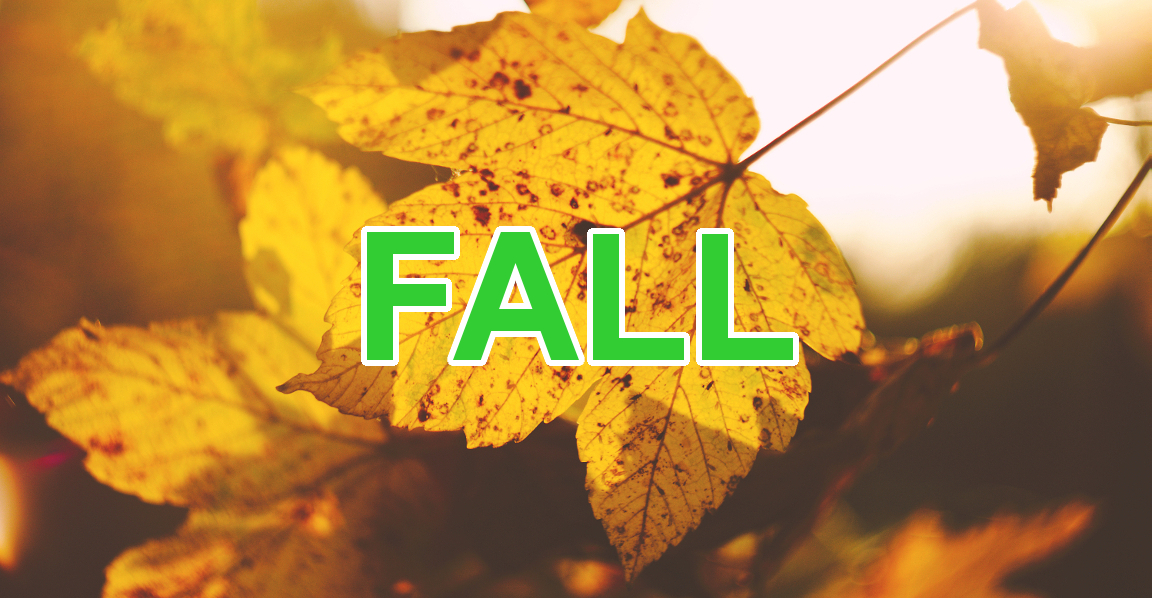
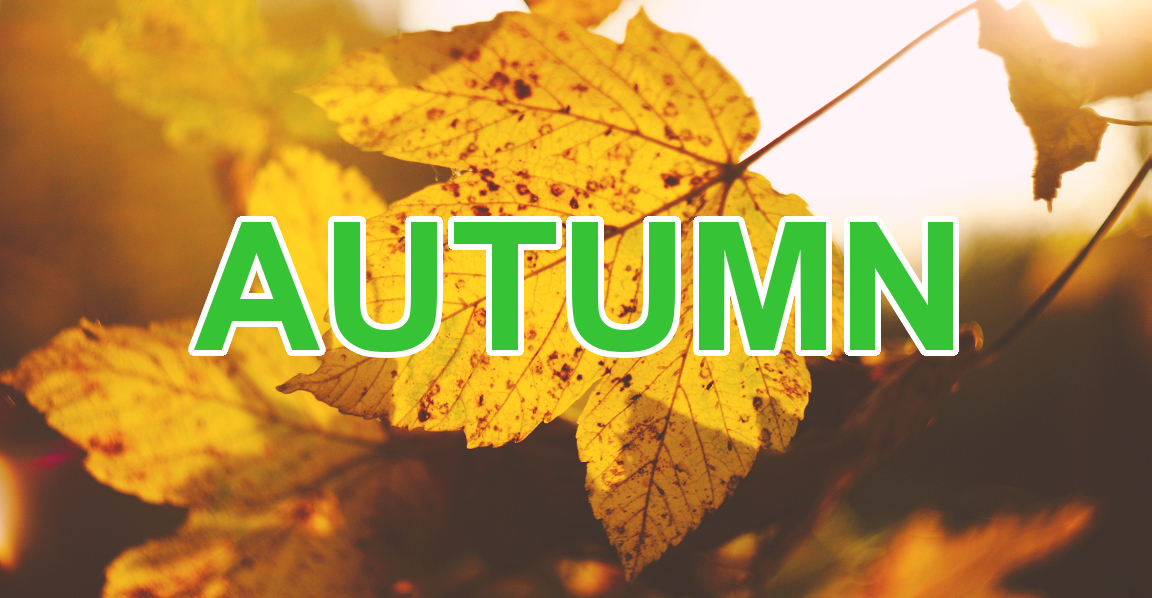
Add files via upload

Changed region(s): [[0.1562, 0.3612, 0.8438, 0.6321]]

diff --git a/events.html b/events.html
@@ -75,6 +75,18 @@
                   <li><a class="newsletters" href="newsletters.html">Newsletters</a></li>
                 </ul>-->
                   </li>
+              <li class="drop-menu">
+              <a id="menu-9" class="header-menu" href="#resources">Resources</a>
+              <!--<ul class="sub-menu">
+                  <li><a class="home" href="index.html">Home</a></li>
+                  <li><a class="about" href="about.html">About</a></li>
+                  <li><a class="products" href="products.html">Products</a></li>
+                  <li><a class="events" href="events.html">Events & Tips</a></li>
+                  <li><a class="contact" href="contact.html">Contact Us</a></li>
+                  <li><a class="feedback" href="feedback.html">Feedback</a></li>
+                  <li><a class="newsletters" href="newsletters.html">Newsletters</a></li>
+                </ul>-->
+                  </li>
               </ul>
           </div>
       </header>
@@ -147,8 +159,119 @@
       </article>
     </section>
 <section class="content-2">
+  <article|>
+      <h5 id="articles"  class="title">Articles</h5>
+    </article>
+    <div class="center-image">
+    <div class="side-bar-mobile2">
+      <img class="grid-bar-mobile2" src="images/grid-bar2.png" />
+    </div>
+  </div>
+  <br />
   <article>
-    <h5 id="articles" class="title">Websites/Facebook Pages</h5>
+        <div class="center-image3">
+          <a href="http://www.iflscience.com/plants-and-animals/not-all-gmo-plants-are-created-equally-its-trait-not-method-thats-important/"><img class="article-pic" src="images/ifls_logo.png"></a>
+      </article>
+      <div class="center-image">
+      <div class="side-bar-mobile4">
+        <img class="grid-bar-mobile2" src="images/grid-bar.png" />
+      </div>
+    </div>
+    <article>
+      <p class="center-text">
+        Many people have strong opinions about genetically modified plants, also known as genetically modified organisms or GMOs. But sometimes there’s confusion around what it means to be a GMO. It also may be much more sensible to judge a plant by its specific traits rather than the way it was produced – GMO or not.
+    </p>
+  </div>
+    </div>
+    </article>
+    <div class="center-image">
+    <div class="side-bar-mobile4">
+      <img class="floral-sidebar-mobile3" src="images/floral-sidebar-mobile2.png" />
+    </div>
+    </div>
+    <article>
+          <div class="center-image3">
+            <a href="http://www.houzz.com/ideabooks/53440093?utm_source=Houzz&utm_campaign=u1750&utm_medium=email&utm_content=gallery19"><img class="article-pic" src="images/print_logo.png"></a>
+        </article>
+        <div class="center-image">
+        <div class="side-bar-mobile4">
+          <img class="grid-bar-mobile2" src="images/grid-bar.png" />
+        </div>
+      </div>
+      <article>
+      <p class="center-text">
+          A great garden tells a story: about the land, its history and the people who forged a partnership with nature to create it. The beginning is a good place to start a story, which is why the entrance to a garden is so important and should be designed thoughtfully.
+      </p>
+    </div>
+  </div>
+  </article>
+  <div class="center-image">
+  <div class="side-bar-mobile4">
+    <img class="floral-sidebar-mobile3" src="images/floral-sidebar-mobile2.png" />
+  </div>
+  </div>
+  <article>
+        <div class="center-image3">
+          <a href="https://www.westcoastseeds.com/garden-resources/articles-instructions/growing-food-containers/"><img class="article-pic" src="images/westcoast_logo.jpg"></a>
+      </article>
+      <div class="center-image">
+      <div class="side-bar-mobile4">
+        <img class="grid-bar-mobile2" src="images/grid-bar.png" />
+      </div>
+    </div>
+    <article>
+        <p class="center-text">
+          Just because your yard isn’t big enough to plant a sapling that will grow into a majestic tree (or you have no yard at all!), doesn’t mean you have to miss out on the fruits trees have to offer. Consider planting a tree in a container, and perhaps, keep it indoors if it doesn’t need full sun. If you choose dwarf tree varieties, your tree can stay a manageable size.
+        </p>
+        </article>
+        <div class="center-image">
+        <div class="side-bar-mobile4">
+          <img class="floral-sidebar-mobile3" src="images/floral-sidebar-mobile2.png" />
+        </div>
+        </div>
+        <article>
+          <div class="center-image3">
+            <a href="http://www.hobbyfarms.com/9-tips-for-growing-container-trees/"><img class="article-pic" src="images/hobbyfarms1.jpg"></a>
+        </article>
+        <div class="center-image">
+        <div class="side-bar-mobile4">
+          <img class="grid-bar-mobile2" src="images/grid-bar.png" />
+        </div>
+      </div>
+      <article>
+      <p class="center-text">
+          No matter where you live, growing food in containers can be accomplished if you learn some basics. While some types of vegetables are simply better suited to growing with their roots in the ground, the determined gardener can grow almost any kind of food plant in containers.
+      </p>
+      </article>
+      <div class="center-image">
+      <div class="side-bar-mobile4">
+        <img class="floral-sidebar-mobile3" src="images/floral-sidebar-mobile2.png" />
+      </div>
+      </div>
+    <article>
+      <div class="center-image3">
+        <a href="http://www.jamieoliver.com/recipes/category/special-diets/vegetarian/"><img class="article-pic" src="images/jamie-oliver.jpg"></a>
+    </article>
+    <div class="center-image">
+    <div class="side-bar-mobile4">
+      <img class="grid-bar-mobile2" src="images/grid-bar.png" />
+    </div>
+  </div>
+  <article>
+    <p class="center-text">
+    Whether it’s delicious vegetarian or vegan recipes you’re after, or ideas for gluten or dairy-free dishes, you’ll find plenty here to inspire you.
+  </p>
+  </article>
+  <div class="center-image">
+  <div class="side-bar-mobile4">
+    <img class="floral-sidebar-mobile3" src="images/floral-sidebar-mobile2.png" />
+  </div>
+  </div>
+</section>
+<br /><br />
+<section class="content-2">
+  <article>
+    <h5 id="resources" class="title">Resources</h5>
   </article>
   <div class="center-image">
   <div class="side-bar-mobile2">
@@ -201,7 +324,7 @@
   </div>
   <article>
         <div class="center-image3">
-          <a href="http://www.iflscience.com/plants-and-animals/not-all-gmo-plants-are-created-equally-its-trait-not-method-thats-important/"><img class="article-pic" src="images/ifls_logo.png"></a>
+          <a href="http://www.motherearthliving.com"><img class="article-pic" src="images/motherearth_logo.jpg"></a>
       </article>
       <div class="center-image">
       <div class="side-bar-mobile4">
@@ -210,7 +333,7 @@
     </div>
     <article>
         <p class="center-text">
-        Not all GMO Plants Are Created Equally: It's The Trait, Not The Method, That's Important.
+        Mother Earth Living is a national natural wellness and conscientious living magazine dedicated to improving the lives of its readers through an increased connection with the natural world.
       </p>
   </div>
     </div>
@@ -220,21 +343,6 @@
       <img class="floral-sidebar-mobile3" src="images/floral-sidebar-mobile2.png" />
     </div>
     </div>
-    <article>
-          <div class="center-image3">
-            <a href="http://www.houzz.com/ideabooks/53440093?utm_source=Houzz&utm_campaign=u1750&utm_medium=email&utm_content=gallery19"><img class="article-pic" src="images/print_logo.png"></a>
-        </article>
-        <div class="center-image">
-        <div class="side-bar-mobile4">
-          <img class="grid-bar-mobile2" src="images/grid-bar.png" />
-        </div>
-      </div>
-      <article>
-          <p class="center-text">
-          The Garden Gate: A Preface to the Story Your Garden Wants to Tell
-      </p>
-    </div>
-  </div>
   </article>
   <div class="center-image">
   <div class="side-bar-mobile4">
@@ -242,62 +350,26 @@
   </div>
   </div>
   <article>
-        <div class="center-image3">
-          <a href="https://www.westcoastseeds.com/garden-resources/articles-instructions/growing-food-containers/"><img class="article-pic" src="images/westcoast_logo.jpg"></a>
-      </article>
-      <div class="center-image">
-      <div class="side-bar-mobile4">
-        <img class="grid-bar-mobile2" src="images/grid-bar.png" />
-      </div>
-    </div>
-    <article>
-        <p class="center-text">
-          Growing Food in Containers[need more text to fill out "p"]
-        </p>
-        </article>
-        <div class="center-image">
-        <div class="side-bar-mobile4">
-          <img class="floral-sidebar-mobile3" src="images/floral-sidebar-mobile2.png" />
-        </div>
-        </div>
-        <article>
-          <div class="center-image3">
-            <a href="http://www.hobbyfarms.com/9-tips-for-growing-container-trees/"><img class="article-pic" src="images/hobbyfarms1.jpg"></a>
-        </article>
-        <div class="center-image">
-        <div class="side-bar-mobile4">
-          <img class="grid-bar-mobile2" src="images/grid-bar.png" />
-        </div>
-      </div>
-      <article>
-          <p class="center-text">
-        9 Tips for Growing Trees in Containers[need more text to fill out "p"]
-      </p>
-      </article>
-      <div class="center-image">
-      <div class="side-bar-mobile4">
-        <img class="floral-sidebar-mobile3" src="images/floral-sidebar-mobile2.png" />
-      </div>
-      </div>
-    <article>
-      <div class="center-image3">
-        <a href="http://www.jamieoliver.com/recipes/category/special-diets/vegetarian/"><img class="article-pic" src="images/jamie-oliver.jpg"></a>
-    </article>
-    <div class="center-image">
-    <div class="side-bar-mobile4">
-      <img class="grid-bar-mobile2" src="images/grid-bar.png" />
-    </div>
+    <div class="center-image3">
+      <a href="http://www.jfschmidt.com/pdfs/"><img class="article-pic" src="images/schmidt_logo.jpg"></a>
+  </article>
+  <div class="center-image">
+  <div class="side-bar-mobile4">
+    <img class="grid-bar-mobile2" src="images/grid-bar.png" />
   </div>
-  <article>
+</div>
+<article>
     <p class="center-text">
-    Whether it’s delicious vegetarian or vegan recipes you’re after, or ideas for gluten or dairy-free dishes, you’ll find plenty here to inspire you.
+        For 70 years, J. Frank Schmidt & Son Co. has been "Growing New Ideas." As originators of the Red Sunset® Maple and introducer or co-introducer of more than 50 other patented or trademarked cultivars, their company is known as a premier source of up-to-date deciduous tree cultivars and new introductions.
   </p>
-  </article>
-  <div class="center-image">
-  <div class="side-bar-mobile4">
-    <img class="floral-sidebar-mobile3" src="images/floral-sidebar-mobile2.png" />
-  </div>
-  </div>
+</div>
+</div>
+</article>
+<div class="center-image">
+<div class="side-bar-mobile4">
+  <img class="floral-sidebar-mobile3" src="images/floral-sidebar-mobile2.png" />
+</div>
+</div>
 </section>
 <br /><br />
 <section class="content-2">

diff --git a/contact.html b/contact.html
@@ -76,7 +76,7 @@
                 </ul>-->
                   </li>
               <li class="drop-menu">
-                  <a id="menu-3" class="header-menu" href="#fall">Fall</a>
+                  <a id="menu-3" class="header-menu" href="#fall">Autumn</a>
                   <!--<ul class="sub-menu">
                       <li><a class="home" href="index.html">Home</a></li>
                       <li><a class="about" href="about.html">About</a></li>
@@ -87,7 +87,7 @@
                       <li><a class="newsletters" href="newsletters.html">Newsletters</a></li>
                     </ul>-->
                   </li>
-              <li class="drop-menu">
+                  <li class="drop-menu">
                   <a id="menu-4" class="header-menu" href="#winter">Winter</a>
                   <!--<ul class="sub-menu">
                       <li><a class="home" href="index.html">Home</a></li>
@@ -136,11 +136,14 @@
           <br />Fax: 604-943-1879</strong>
         </p>
       </div>
-      </article>
+          <div class="center-button">
+            <a href="#calendar"><input type="submit" value="See our Calendar here!" class="button button-pill button-primary"></a>
+          </div>
+    </article>
   </section>
   <section class="content-2">
     <article>
-      <h5 class="title">CALENDAR</h5>
+      <h5 id="calendar" class="title">CALENDAR</h5>
     </article>
     <div class="center-image">
     <div class="side-bar-mobile2">
@@ -167,7 +170,7 @@
         </div>
         <article>
         <div class="center-image2">
-          <img id="spring" class="home-pic" src="images/spring-bar.jpg" />
+          <img id="spring" class="season-pic" src="images/spring-bar.jpg" />
           </div>
             <div class="carousel-small">
           <a class="carousel-item" href="#four!"><img src="images/may.png"></a>
@@ -190,7 +193,7 @@
       <br /><br />
       <article>
         <div class="center-image2">
-          <img id="summer" class="home-pic" src="images/summer-bar.jpg" />
+          <img id="summer" class="season-pic" src="images/summer-bar.jpg" />
           </div>
             <div class="carousel-small">
           <a class="carousel-item" href="#four!"><img src="images/august.png"></a>
@@ -213,7 +216,7 @@
       <br /><br />
       <article>
         <div class="center-image2">
-          <img id="fall" class="home-pic" src="images/fall-bar.jpg" />
+          <img id="fall" class="season-pic" src="images/fall-bar.jpg" />
           </div>
             <div class="carousel-small">
           <a class="carousel-item" href="#four!"><img src="images/november.png"></a>
@@ -236,7 +239,7 @@
       <br /><br />
       <article>
         <div class="center-image2">
-          <img id="winter" class="home-pic" src="images/winter-bar.jpg" />
+          <img id="winter" class="season-pic" src="images/winter-bar.jpg" />
           </div>
             <div class="carousel-small">
           <a class="carousel-item" href="#four!"><img src="images/february.png"></a>

diff --git a/feedback.html b/feedback.html
@@ -105,7 +105,7 @@
 </div>
     <article>
         <div class="center-button">
-          <input type="submit" value="Submit Feedback" class="button button-pill button-primary">
+          <a href="https://www.yelp.ca/writeareview/biz/1EIpi3a9mxE152XcLruu_w?return_url=%2Fbiz%2F1EIpi3a9mxE152XcLruu_w"><input type="submit" value="Submit Feedback" class="button button-pill button-primary"></a>
         </div>
   </article>
   </section>

diff --git a/newsletters.html b/newsletters.html
@@ -123,7 +123,7 @@
   </div>
       <article>
           <div class="center-button">
-            <input type="submit" value="Subscribe Here" class="button button-pill button-primary">
+            <a href="http://visitor.r20.constantcontact.com/d.jsp?llr=eujmoniab&amp;p=oi&amp;m=1108552853124"><input type="submit" value="Subscribe Here" class="button button-pill button-primary"></a>
           </div>
     </article>
     </section>

diff --git a/about.html b/about.html
@@ -134,6 +134,9 @@
       <p class="center">
         We look forward to seeing you in our garden center and are eager to answer all of your gardening questions.
       </p>
+      <div class="center-image2">
+        <img class="home-pic" src="images/overview-pic.jpg" />
+      </div>
     </article>
     <div class="center-image">
     <div class="side-bar-mobile5">
